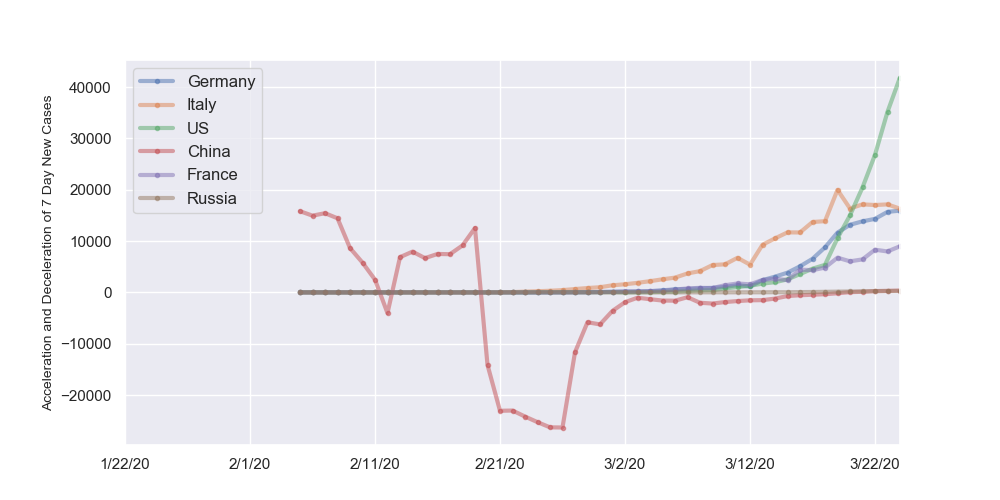
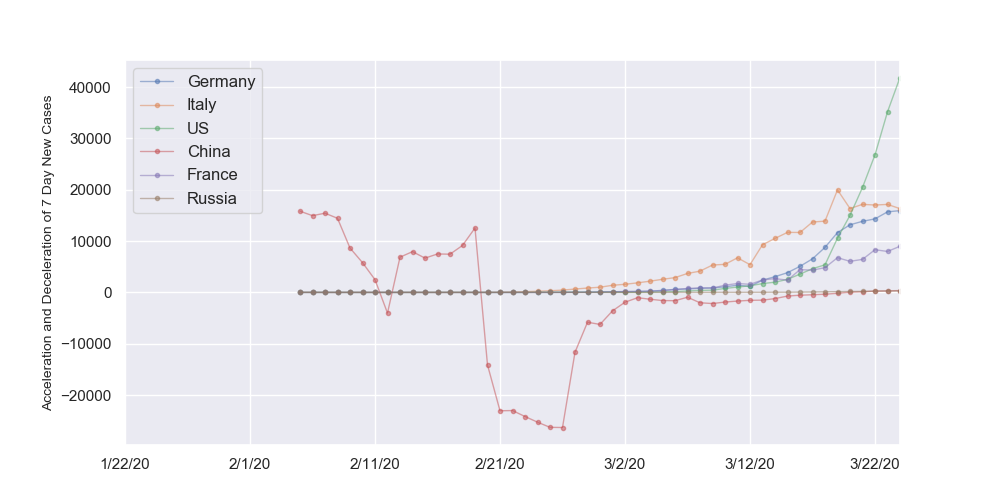
Daily UPD

diff --git a/COVID.py b/COVID.py
@@ -111,7 +111,7 @@ diff7_2.to_csv('/Users/mminakova/Documents/COVID/covid_tracker/covid/'+csv_name)
 
 
 cols_plot = ['Germany', 'Italy', 'US', 'China', 'France', 'Russia']
-axes = diff7_2[cols_plot].plot(marker='.', alpha=0.5, linestyle='-', figsize=(10, 5), linewidth = 3)
+axes = diff7_2[cols_plot].plot(marker='.', alpha=0.5, linestyle='-', figsize=(10, 5), linewidth = 1)
 
 axes.set_ylabel('Acceleration and Deceleration of 7 Day New Cases', fontsize = 10)
 axes.legend(fontsize = 'medium')
@@ -122,7 +122,7 @@ plt.savefig('/Users/mminakova/Documents/COVID/covid_tracker/covid/Acceleration a
 
 
 cols_plot = ['Germany', 'Italy', 'US', 'China', 'France', 'Russia']
-axes = diff[cols_plot].plot(marker='.', alpha=0.5, linestyle='-', linewidth = 3, figsize=(10, 5))
+axes = diff[cols_plot].plot(marker='.', alpha=0.5, linestyle='-', linewidth = 1, figsize=(10, 5))
 axes.set_ylabel('Total number of confirmed cases', fontsize = 15)
 axes.legend(fontsize = 'medium')
 plt.savefig('/Users/mminakova/Documents/COVID/covid_tracker/covid/Total number of confirmed cases.png')
@@ -132,7 +132,7 @@ plt.savefig('/Users/mminakova/Documents/COVID/covid_tracker/covid/Total number o
 
 
 cols_plot = ['Germany', 'Italy', 'US', 'China', 'France', 'Russia']
-axes = diff7_1[cols_plot].plot(marker='.', alpha=0.5, linestyle='-', linewidth = 3, figsize=(10, 5))
+axes = diff7_1[cols_plot].plot(marker='.', alpha=0.5, linestyle='-', linewidth = 1, figsize=(10, 5))
 
 axes.set_ylabel('7 Day New Cases', fontsize = 15)
 axes.legend(fontsize = 'medium')
